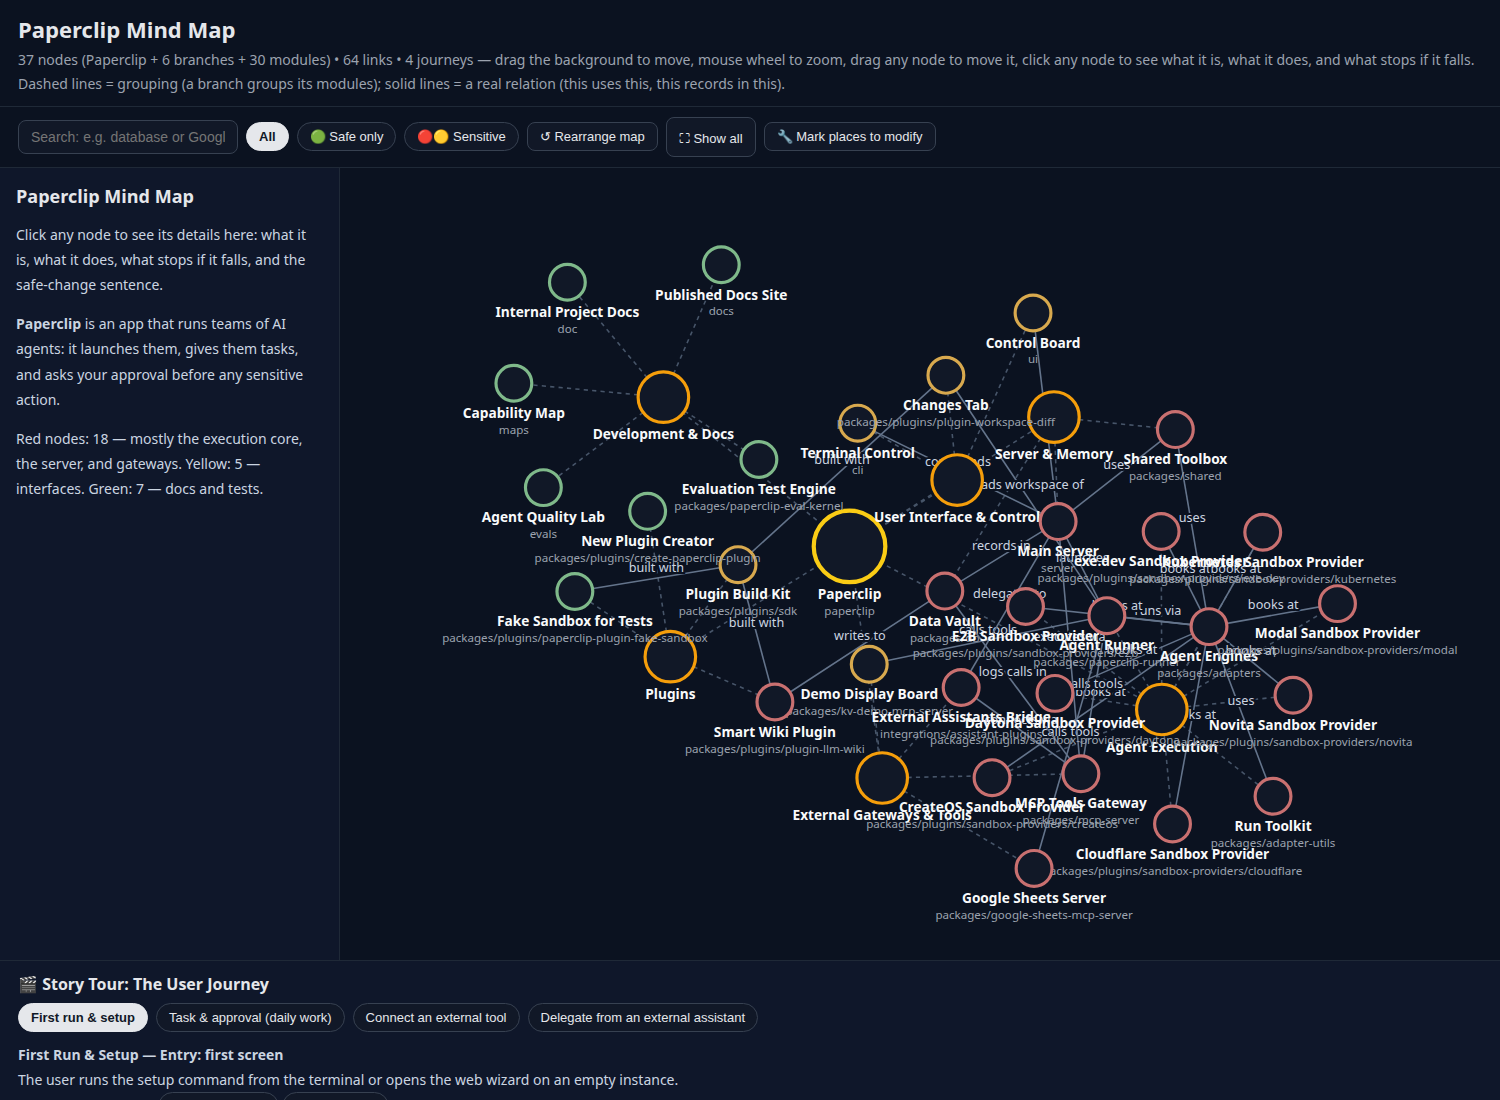
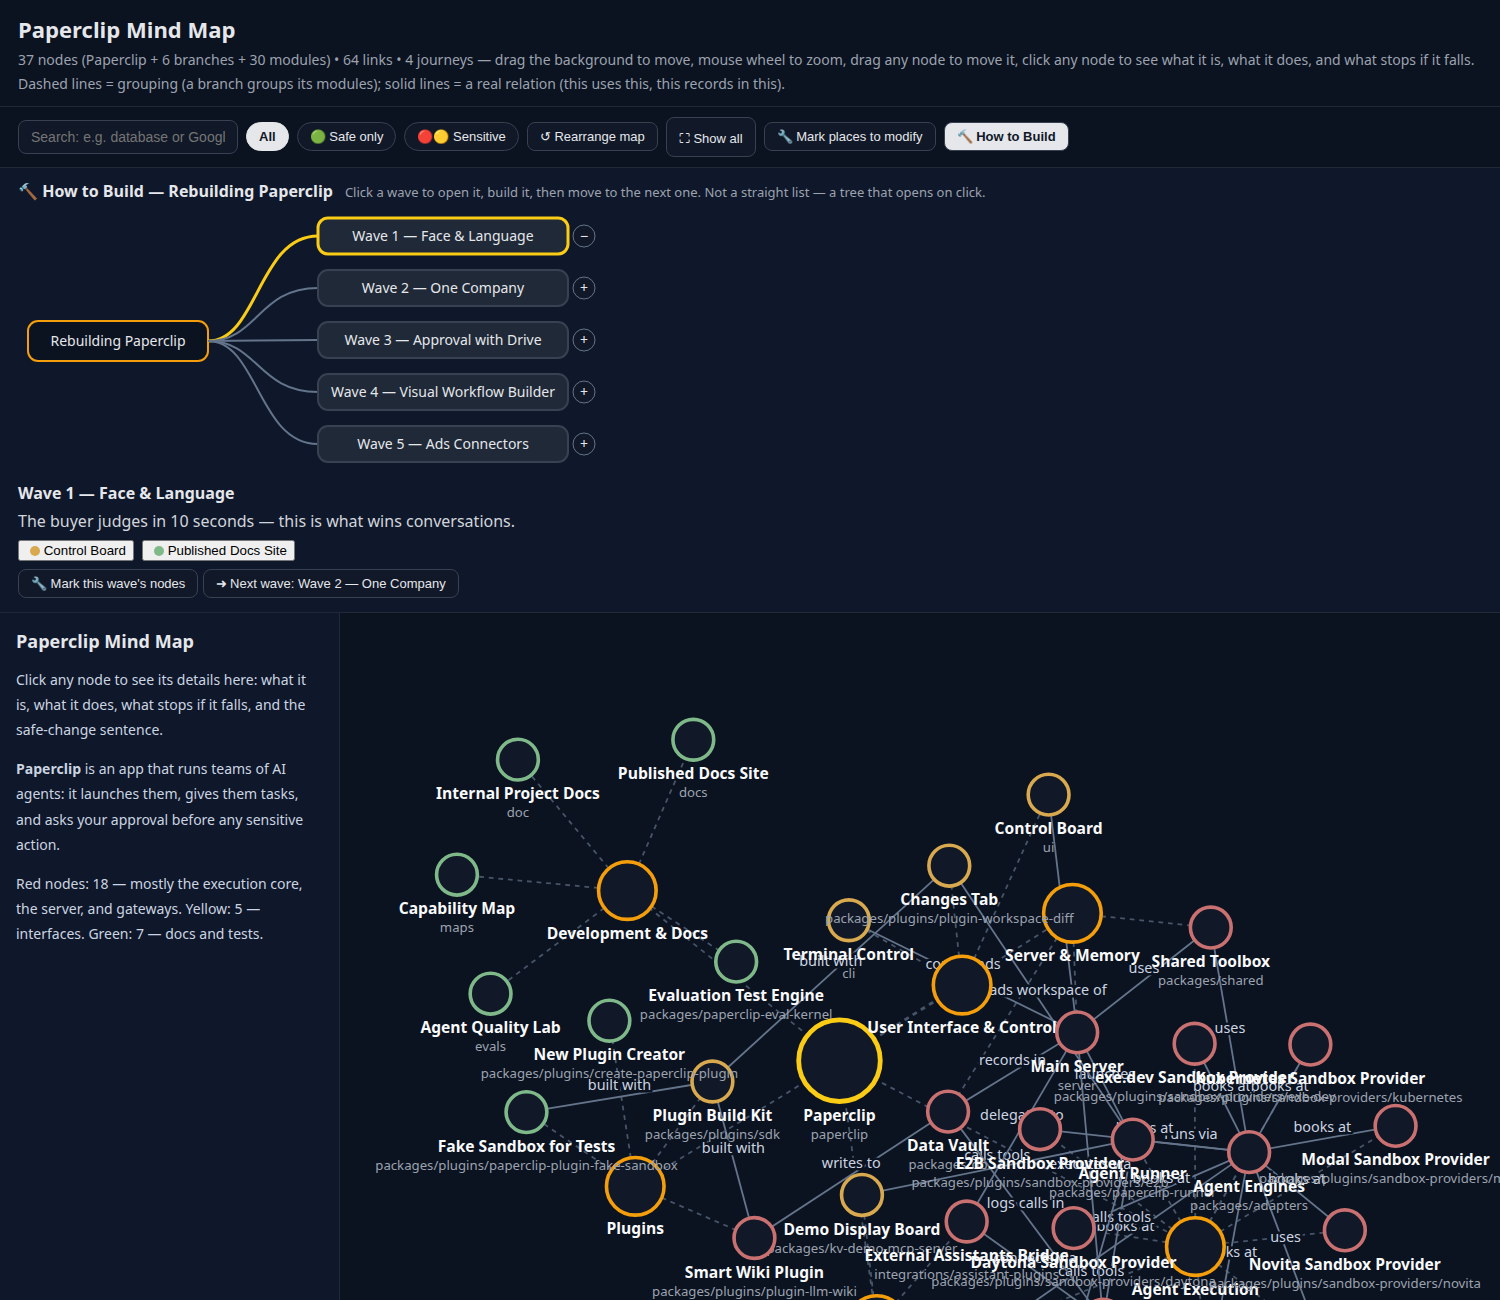
Demo: English mind map with How to Build box + updated screenshot and README

diff --git a/examples/paperclip-mindmap.html b/examples/paperclip-mindmap.html
@@ -41,6 +41,13 @@
   .node-g.marked circle { stroke: #facc15; stroke-width: 5; }
   .node-g .mark-badge { font-size: 15px; text-anchor: middle; pointer-events: none; display: none; }
   .node-g.marked .mark-badge { display: block; }
+  .buildbox { border-bottom: 1px solid #1f2937; padding: 12px 18px 14px; background: #0f172a; }
+  .build-head { display: flex; gap: 12px; align-items: baseline; flex-wrap: wrap; margin-bottom: 4px; }
+  .build-head span { color: #9ca3af; font-size: 13px; }
+  #buildTree { width: 100%; max-width: 900px; height: 270px; display: block; }
+  .build-detail { margin-top: 6px; }
+  .build-detail p { color: #d1d5db; margin: 6px 0; }
+  .wave-node { cursor: pointer; }
   #tour { margin: 0; border-top: 1px solid #1f2937; padding: 12px 18px; background: #0f172a; }
   #tour h2 { margin: 0 0 8px; font-size: 16px; }
   #tour .phase { color: #cbd5e1; line-height: 1.8; font-size: 14px; }
@@ -72,6 +79,12 @@
   <button class="tbtn" id="fitBtn">⛶ Show all</button>
   <button class="tbtn" id="markBtn">🔧 Mark places to modify</button>
   <button class="chip" id="markCount" style="display:none"></button>
+  <button class="tbtn" id="buildBtn">🔨 How to Build</button>
+</div>
+<div class="buildbox" id="buildBox" style="display:none">
+  <div class="build-head"><b>🔨 How to Build — Rebuilding Paperclip</b><span>Click a wave to open it, build it, then move to the next one. Not a straight list — a tree that opens on click.</span></div>
+  <svg id="buildTree" viewBox="0 0 900 270"></svg>
+  <div class="build-detail" id="buildDetail"></div>
 </div>
 <div class="main">
   <div class="panel" id="panel"></div>
@@ -474,6 +487,69 @@ document.getElementById("markBtn").addEventListener("click", () => {
   if (markMode) showMarkedList(); else defaultPanel();
 });
 document.getElementById("markCount").addEventListener("click", showMarkedList);
+const WAVES = [
+  { t: "Wave 1 — Face & Language", why: "The buyer judges in 10 seconds — this is what wins conversations.", nodes: ["ui", "docs"] },
+  { t: "Wave 2 — One Company", why: "From a multi-company developer tool to a one-company operations platform — it simplifies everything after.", nodes: ["server", "db", "ui"] },
+  { t: "Wave 3 — Approval with Drive", why: "Your edge — the approval flow on Drive documents, the gap from the WAZEFNI project.", nodes: ["server", "ui", "shared", "db"] },
+  { t: "Wave 4 — Visual Workflow Builder", why: "The hardest one — comes after the product proves itself.", nodes: ["ui", "server", "runner"] },
+  { t: "Wave 5 — Ads Connectors", why: "The last one — fully external.", nodes: ["integrations", "mcp-server"] }
+];
+let buildOpen = false, curWave = 0;
+function svgEl(n, attrs, parent) {
+  const e = document.createElementNS("http://www.w3.org/2000/svg", n);
+  for (const k in attrs) e.setAttribute(k, attrs[k]);
+  parent.appendChild(e);
+  return e;
+}
+function renderBuildTree() {
+  const svg = document.getElementById("buildTree");
+  svg.innerHTML = "";
+  const rx = 10, ry = 115, rw = 180, rh = 40;
+  const rg = svgEl("g", {}, svg);
+  svgEl("rect", { x: rx, y: ry, width: rw, height: rh, rx: 10, fill: "#0b1220", stroke: "#f59e0b", "stroke-width": 2 }, rg);
+  const rt = svgEl("text", { x: rx + rw / 2, y: ry + 25, "text-anchor": "middle", fill: "#e5e7eb", "font-size": 14 }, rg);
+  rt.textContent = "Rebuilding Paperclip";
+  WAVES.forEach((w, i) => {
+    const y = 12 + i * 52, x = 300, ww = 250, hh = 36;
+    svgEl("path", { d: "M " + (rx + rw) + " " + (ry + rh / 2) + " C 240 " + (ry + rh / 2) + ", 240 " + (y + hh / 2) + ", " + x + " " + (y + hh / 2), fill: "none", stroke: i === curWave ? "#facc15" : "#64748b", "stroke-width": i === curWave ? 3 : 2 }, svg);
+    const g = svgEl("g", { "class": "wave-node" }, svg);
+    g.addEventListener("click", () => showWave(i));
+    svgEl("rect", { x: x, y: y, width: ww, height: hh, rx: 10, fill: "#1f2937", stroke: i === curWave ? "#facc15" : "#374151", "stroke-width": i === curWave ? 3 : 2 }, g);
+    const t = svgEl("text", { x: x + ww / 2, y: y + 23, "text-anchor": "middle", fill: "#e5e7eb", "font-size": 14 }, g);
+    t.textContent = w.t;
+    svgEl("circle", { cx: x + ww + 16, cy: y + hh / 2, r: 11, fill: "#111827", stroke: "#64748b" }, g);
+    const ct = svgEl("text", { x: x + ww + 16, y: y + hh / 2 + 5, "text-anchor": "middle", fill: "#e5e7eb", "font-size": 14 }, g);
+    ct.textContent = i === curWave ? "−" : "+";
+  });
+}
+function showWave(i) {
+  curWave = i;
+  renderBuildTree();
+  const w = WAVES[i];
+  let html = "<b>" + w.t + "</b><p>" + w.why + "</p><div style='display:flex;flex-wrap:wrap;gap:8px;margin:8px 0'>";
+  w.nodes.forEach((id) => {
+    const n = byId(id);
+    if (n) html += "<button class='nbtn' style='width:auto' onclick='selectNode(\"" + id + "\")'><span class='dot' style='background:" + RISK[n.risk][0] + "'></span> " + esc(n.plain) + "</button>";
+  });
+  html += "</div>";
+  html += "<button class='tbtn' onclick='markWave(" + i + ")'>🔧 Mark this wave's nodes</button> ";
+  if (i < WAVES.length - 1) html += "<button class='tbtn' onclick='showWave(" + (i + 1) + ")'>➜ Next wave: " + WAVES[i + 1].t + "</button>";
+  else html += "<span style='color:#9ca3af'>✔ This is the last wave.</span>";
+  document.getElementById("buildDetail").innerHTML = html;
+}
+function markWave(i) {
+  WAVES[i].nodes.forEach((id) => {
+    if (!marked.has(id)) { marked.add(id); if (nodeEls[id]) nodeEls[id].classList.add("marked"); }
+  });
+  updateMarkUI();
+}
+document.getElementById("buildBtn").addEventListener("click", () => {
+  buildOpen = !buildOpen;
+  document.getElementById("buildBtn").classList.toggle("active", buildOpen);
+  document.getElementById("buildBox").style.display = buildOpen ? "" : "none";
+  if (buildOpen) showWave(curWave);
+});
+if (buildOpen) showWave(curWave);
 function clearFocus() { focusSet = null; selectedId = null; defaultPanel(); refreshDim(); }
 document.querySelectorAll(".chip.risk").forEach((b) => b.addEventListener("click", () => {
   document.querySelectorAll(".chip.risk").forEach((x) => x.classList.remove("active"));

diff --git a/README.md b/README.md
@@ -44,9 +44,11 @@
 
 This is a real map of [Paperclip](https://github.com/paperclipai/paperclip) — a multi-agent platform — built with the new method: every node shows its real file name on top, a plain-language name, what it does, and what stops if it falls. Red nodes are sensitive (touching them can break core features); green nodes are safe to change.
 
+New: the **How to Build** box at the top walks you through rebuilding the app wave by wave — click a wave to open it, mark its nodes, then move to the next one. And **Mark places to modify** collects your own modification plan from any node.
+
 ![Paperclip mind map — plain English](examples/paperclip-mindmap-screenshot.png)
 
-👉 [Open the interactive map](examples/paperclip-mindmap.html) — drag to move, scroll to zoom, click any node for its details, or use **Mark places to modify** to build your own modification plan.
+👉 [Open the interactive map](examples/paperclip-mindmap.html) — drag to move, scroll to zoom, click any node for its details, use **Mark places to modify** to build your modification plan, or open **How to Build** to follow the rebuild path wave by wave.
 
 ---
 
